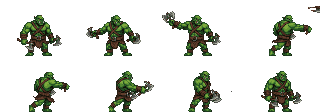
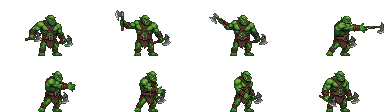
Orc animé de nouveau ; un cycle de déplacement par case
- Orc : attente, marche, lancer de hache (la hache en vol sera dessinée par le jeu).
- Une créature qui marche traverse une case en un cycle de son animation de déplacement (les volants restent
  rapides, « stepTime » garde la main).
- creature.py retoucher --detaches : efface les petits morceaux détachés du corps.

diff --git a/tools/art/creature.py b/tools/art/creature.py
@@ -18,9 +18,9 @@ quadrupède, grand) qui donne la fin des textes de demande et les mouvements par
         PixelLab. Au plus 8 tâches à la fois (les autres attendent). --sans remplace la fin du texte (« pas d'autre
         personnage, pas d'effet… » ; vide : rien) ; --enrichir laisse PixelLab détailler le mouvement ; --images=16 : une
         feuille de 16 images (4 × 4), pour un mouvement lent mais fluide. Coûte de l'argent.
-    python -I tools/art/creature.py retoucher <id> <nom> [--eclats[=partout]] [--copier=7:8,…] [--corde=7,8] [--nouveau=5] [--recentrer[=tete]]
+    python -I tools/art/creature.py retoucher <id> <nom> [--eclats[=partout]] [--copier=7:8,…] [--corde=7,8] [--nouveau=5] [--detaches] [--recentrer[=tete]]
         corrige une feuille (écrit <nom>-r) : efface les éclats d'impact (devant la créature, ou partout), remplace l'image 7 par la 8, trace la corde
-        de l'arc sur ces images, efface dans l'image 5 les couleurs absentes des images voisines, garde les pieds (ou la tête) à la même place d'une image à l'autre. Gratuit.
+        de l'arc sur ces images, efface dans l'image 5 les couleurs absentes des images voisines, efface les petits morceaux détachés, garde les pieds (ou la tête) à la même place d'une image à l'autre. Gratuit.
     python -I tools/art/creature.py choisir <id> <idle|move|attack> <nom> [images/s]
         installe la feuille (art/creatures/battle/<id>-idle.png, -move, -attack) et sa vitesse dans animations.json (avec son nombre
         d'images, s'il n'est pas de 8).
@@ -268,7 +268,7 @@ def cmd_retoucher(ident, nom, options):
     total = nombre_images(os.path.join(d, base)) if os.path.isdir(os.path.join(d, base)) else 8
     images = n.decouper(lire(os.path.join(d, nom + ".png"))[2], 4, (total + 3) // 4)
     # les copies d'abord, puis les effacements (sur les bonnes images)
-    ordre = ("--copier", "--nouveau", "--eclats", "--corde", "--recentrer")
+    ordre = ("--copier", "--nouveau", "--eclats", "--detaches", "--corde", "--recentrer")
     options = sorted(options, key=lambda o: next((i for i, d in enumerate(ordre) if o.startswith(d)), 9))
     for o in options:
         if o in ("--eclats", "--eclats=partout"):
@@ -283,6 +283,8 @@ def cmd_retoucher(ident, nom, options):
         elif o.startswith("--nouveau="):
             for k in o.split("=", 1)[1].split(","):
                 print(f"image {k} : {n.effacer_nouveau(images, int(k))} pixels de couleur nouvelle effacés")
+        elif o == "--detaches":
+            print("morceaux détachés effacés :", sum(n.retirer_detaches(q) for q in images))
         elif o.startswith("--recentrer"):
             images = n.recentrer(images, "tete" if o.endswith("=tete") else "pieds")
         elif o.startswith("--corde="):
@@ -488,7 +490,8 @@ def cmd_page(ident):
                       f"<div>{'★ ' if pris else ''}{nom}{f' ({total} images)' if total != 8 else ''}</div>{alertes}</div>")
             donnees_js.append({"id": fid, "feuille": vers_page(os.path.join(d, nom + ".png")), "voisin": voisin, "images": total,
                                "fps": propre.get(etat, 10), "attaque": etat == "attack", "deplacement": etat == "move",
-                               "pas": propre.get("stepTime", 0.09),
+                               # comme le jeu : un cycle par case pour une créature qui marche, 0,09 s pour un volant
+                               "pas": propre.get("stepTime", 0.09 if f.get("vole") else total / propre.get("move", 10)),
                                "pause": pause if etat == "idle" and pause[1] > 0 else None})
         anims += "</div>"
     html = PAGE.format(titre=f.get("nom", ident), notes=f.get("notes", ""), fixes=fixes or "<p>Pas encore d'image.</p>",

diff --git a/godot/scripts/Game/BattleFieldView.cs b/godot/scripts/Game/BattleFieldView.cs
@@ -71,9 +71,19 @@ public partial class BattleFieldView : Control
     private static int Frames(BattleUnit unit, string state) =>
         Setting(unit, state + "Frames") is double frames and >= 1 ? (int)frames : AnimationFrames;
 
-    /// <summary>Le temps pour traverser une case en marchant (« stepTime », en secondes ; 0,09 par défaut) : un zombie
-    /// avance lentement, au pas de son animation.</summary>
-    private static double StepTime(BattleUnit unit) => Setting(unit, "stepTime") is double time and > 0 ? time : 0.09;
+    /// <summary>
+    /// Le temps pour traverser une case (« stepTime », en secondes) : par défaut, une créature qui marche fait un cycle
+    /// de son animation de déplacement par case (ses pieds ne glissent pas) ; une créature qui vole va vite (0,09 s par
+    /// case : un vol traverse beaucoup de cases d'un coup).
+    /// </summary>
+    private static double StepTime(BattleUnit unit)
+    {
+        if (Setting(unit, "stepTime") is double time and > 0)
+            return time;
+        if (unit.Type.Abilities.Contains("flies") || Sheet(unit, Move) == null)
+            return 0.09;
+        return Frames(unit, Move) / Fps(unit, Move);
+    }
 
     /// <summary>
     /// La pause entre deux attentes (« idlePauseMin » et « idlePauseMax », en secondes) : la créature reste sur sa pose

diff --git a/tools/art/nettoyage.py b/tools/art/nettoyage.py
@@ -130,6 +130,18 @@ def teintes(p):
     return {tuple(v // 24 for v in c[:3]) for r in p for c in r if c[3]}
 
 
+def retirer_detaches(p, taille=60):
+    """Efface tout petit morceau détaché du corps (moins de <taille> pixels), clair ou sombre : un bout d'arme lancée,
+    une miette. À ne pas utiliser si la créature a des morceaux séparés (une corde d'arc, une chaîne)."""
+    n = 0
+    for g in morceaux(p)[1:]:
+        if len(g) < taille:
+            for x, y in g:
+                p[y][x] = VIDE
+            n += 1
+    return n
+
+
 def effacer_eclats(p, marge=12, centre=None, garder=None):
     """Efface les éclats d'impact devant la créature, à plus de <marge> pixels à droite de son axe (<centre> : celui
     de la pose de départ, la créature pouvant se pencher en avant) : rouge, orange, jaune vifs et blanc pur.

diff --git a/tools/art/METHODE.md b/tools/art/METHODE.md
@@ -60,10 +60,11 @@ les clés et le dossier `art-candidats/` sont décrits dans `CLAUDE.md` ; l'hist
   Une attente ou un déplacement : sur place (le jeu déplace la créature) ; pour un volant, un battement d'ailes sur place.
 - **À retirer après coup** (`creature.py retoucher`) : étincelles cyan, éclats d'impact (`--eclats`, ou
   `--eclats=partout` : rouge vif et blanc pur aussi sur le corps), couleurs absentes des images voisines (`--nouveau=5`),
-  une image ratée remplacée par une autre (`--copier=7:8`), une marche qui glisse (`--recentrer`), la corde d'un arc
+  une image ratée remplacée par une autre (`--copier=7:8`), un petit morceau détaché (`--detaches`), une marche qui glisse (`--recentrer`), la corde d'un arc
   (`--corde=7,8`) ; un adversaire dessiné dans l'animation : jeter l'essai.
 - **Vitesse et pauses** : `art/creatures/battle/animations.json` (images par seconde par animation, pause de 3 à 6 s
-  entre deux attentes, `stepTime` : temps pour traverser une case, 0,09 s par défaut, 0,45 pour le Zombie). Au combat,
+  entre deux attentes, `stepTime` : temps pour traverser une case ; par défaut, une créature qui marche fait **un cycle de déplacement
+  par case** (8 images à 10 par seconde : 0,8 s), un volant 0,09 s ; le Zombie 0,45). Au combat,
   une troupe regarde où elle va (miroir) et se tourne vers sa cible. L'utilisateur trouve les animations un peu chargées : préférer des mouvements discrets.
 - Écartés : « Bitforge » (`creer`) à cette taille, le style « classic » (trop dessin animé), le style « retro » de Retro
   Diffusion pour les créatures (images carrées, toutes de face et de la même taille), repeindre une seule zone

diff --git a/HISTORIQUE.md b/HISTORIQUE.md
@@ -378,6 +378,9 @@ détails, surtout agrandies au combat), dans cet ordre :
    (il se cabre puis frappe des serres et du bec). L'animation « walk » s'appelle maintenant **« move »** (déplacement :
    marche ou vol ; fichiers `-move.png`, réglages `move` et `moveFrames`). La page d'une créature montre un déplacement
    qui traverse quatre cases à la vitesse du jeu, pour voir si le cycle se répète bien.
+   L'**Orc** : animations refaites (2026-11-06) avec l'outil, depuis sa grande image d'origine (82 px) : attente calme,
+   marche, lancer de hache où la hache ne vole pas (elle sera dessinée par le jeu). Une créature qui marche fait
+   maintenant un cycle de déplacement par case (demandé par l'utilisateur).
    **Vitesse et pauses des animations** (`art/creatures/battle/animations.json`, facultatif) : images par seconde par
    créature et par animation (`idle`, `walk`, `attack`, 10 par défaut ; une attaque plus lente porte son coup plus
    tard), et une pause entre deux attentes (`idlePauseMin`, `idlePauseMax`, en secondes) : la créature garde sa pose de
